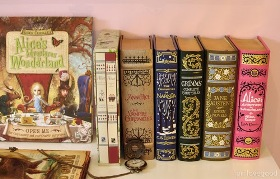
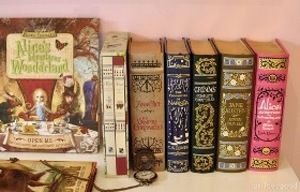
katalog

diff --git a/index.html b/index.html
@@ -7,8 +7,9 @@
 
   <body>
       <h1 style= "color:brown">KLASİKLER KİTAP KATALOĞU</h1>
-      <img src="resim1.jpg" width= %30/>
+  
       
+ <img src="resim1.jpg"  style="width: 70%" />   
 
     <div class="container">
       <!-- Static navbar -->
